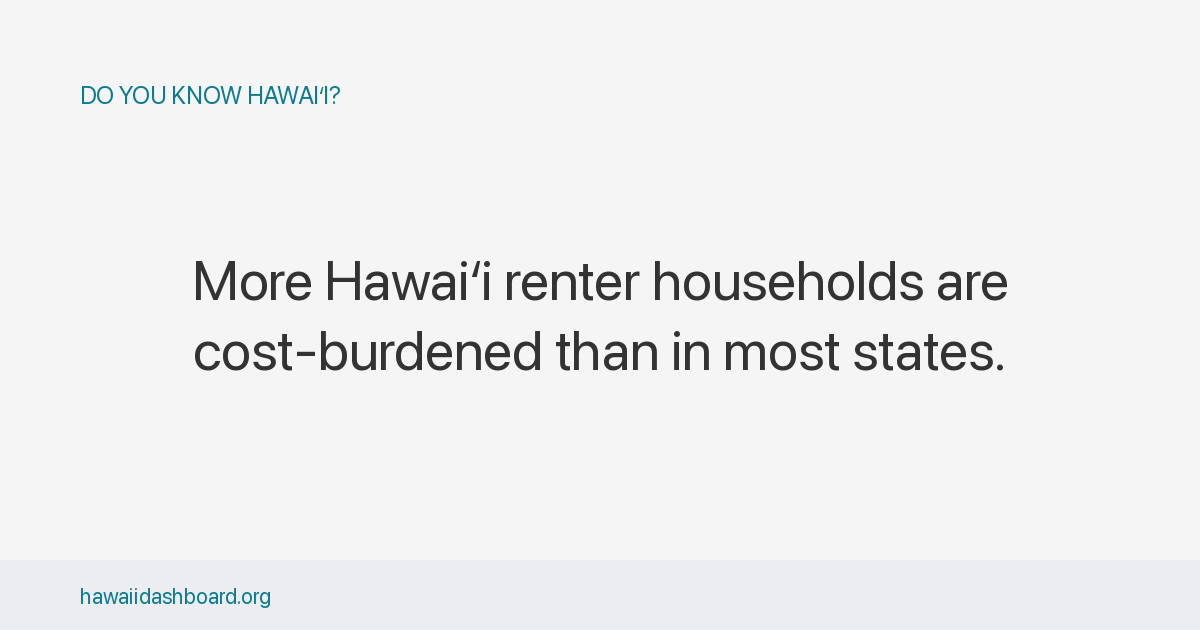
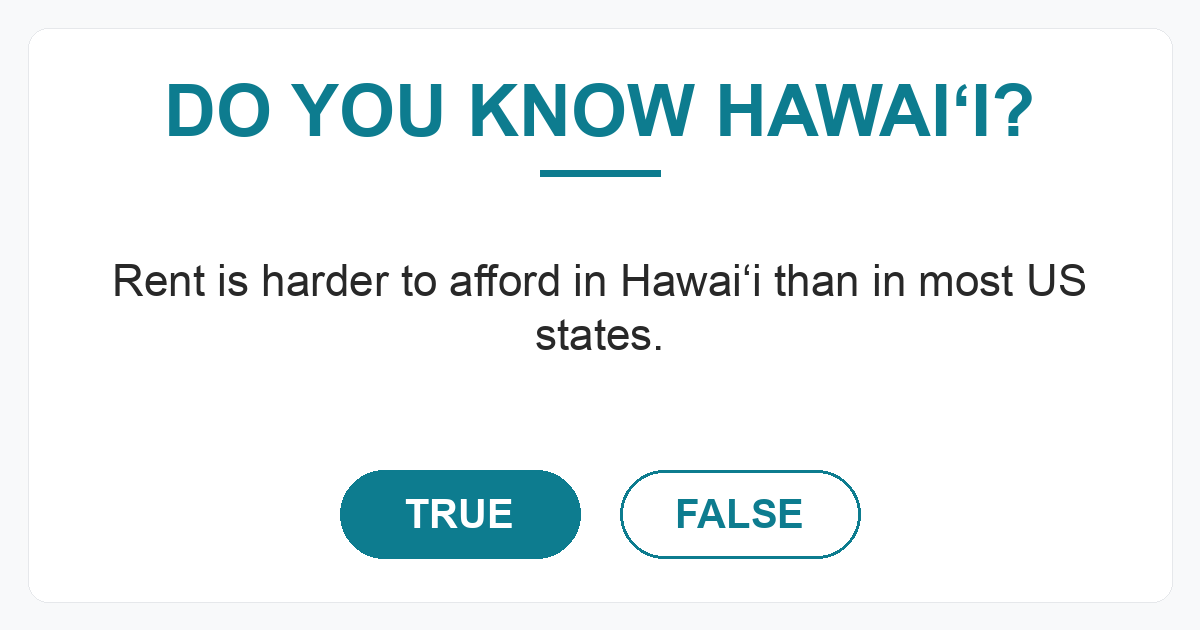
QOTD q005: tighten claim wording to plain English
"More Hawaiʻi renter households are cost-burdened than in most states."
→ "Rent is harder to afford in Hawaiʻi than in most US states."

Same V1 framing, same metric (renter_cost_burden_pct), same threshold
pass (5.6 pp gap on a 49.4 comparator → 11.3% relative gap, above the
≥10% V1 threshold). New wording drops "cost-burdened" jargon and reads
in two seconds.

diff --git a/q/q005/index.html b/q/q005/index.html
@@ -13,7 +13,7 @@
   <meta name="twitter:card" content="summary_large_image">
   <meta name="twitter:title" content="Do you know Hawaiʻi?">
   <meta name="twitter:image" content="https://hawaiidashboard.org/assets/og/q/most-hawaii-renters-spend-over-30-percent-on-rent.png">
-  <meta name="description" content="More Hawaiʻi renter households are cost-burdened than in most states.">
+  <meta name="description" content="Rent is harder to afford in Hawaiʻi than in most US states.">
   <link rel="canonical" href="https://hawaiidashboard.org/q/q005/">
   <script>window.location.replace("/?from_q=q005");</script>
   <meta http-equiv="refresh" content="0;url=https://hawaiidashboard.org/?from_q=q005">
@@ -22,7 +22,7 @@
   <p>Redirecting to <a href="https://hawaiidashboard.org/?from_q=q005">Do you know Hawaiʻi?</a>&hellip;</p>
   <article style="max-width:640px;margin:2rem auto;padding:0 1rem;font-family:-apple-system,BlinkMacSystemFont,'Segoe UI',sans-serif;color:#333;line-height:1.55;">
     <p style="color:#888;font-size:0.875rem;text-transform:uppercase;letter-spacing:0.05em;margin:0;">Do you know Hawaiʻi?</p>
-    <p style="margin:0.25rem 0 1rem;font-size:1.25rem;font-weight:600;">More Hawaiʻi renter households are cost-burdened than in most states.</p>
+    <p style="margin:0.25rem 0 1rem;font-size:1.25rem;font-weight:600;">Rent is harder to afford in Hawaiʻi than in most US states.</p>
     <p><strong>True.</strong> In 2024, Hawaiʻi was 55.0% versus the median of 49.4%.</p>
     <p style="margin-top:1.5rem;"><a href="/r/renter_cost_burden_pct/">See the data &rarr;</a></p>
   </article>

diff --git a/js/questions.js b/js/questions.js
@@ -141,7 +141,7 @@ const QOTD_QUESTIONS = [
   {
     "id": "q005",
     "slug": "most-hawaii-renters-spend-over-30-percent-on-rent",
-    "claim": "More Hawaiʻi renter households are cost-burdened than in most states.",
+    "claim": "Rent is harder to afford in Hawaiʻi than in most US states.",
     "correct": true,
     "answer": "In 2024, Hawaiʻi was 55.0% versus the median of 49.4%.",
     "chartUrl": "/r/renter_cost_burden_pct/",
